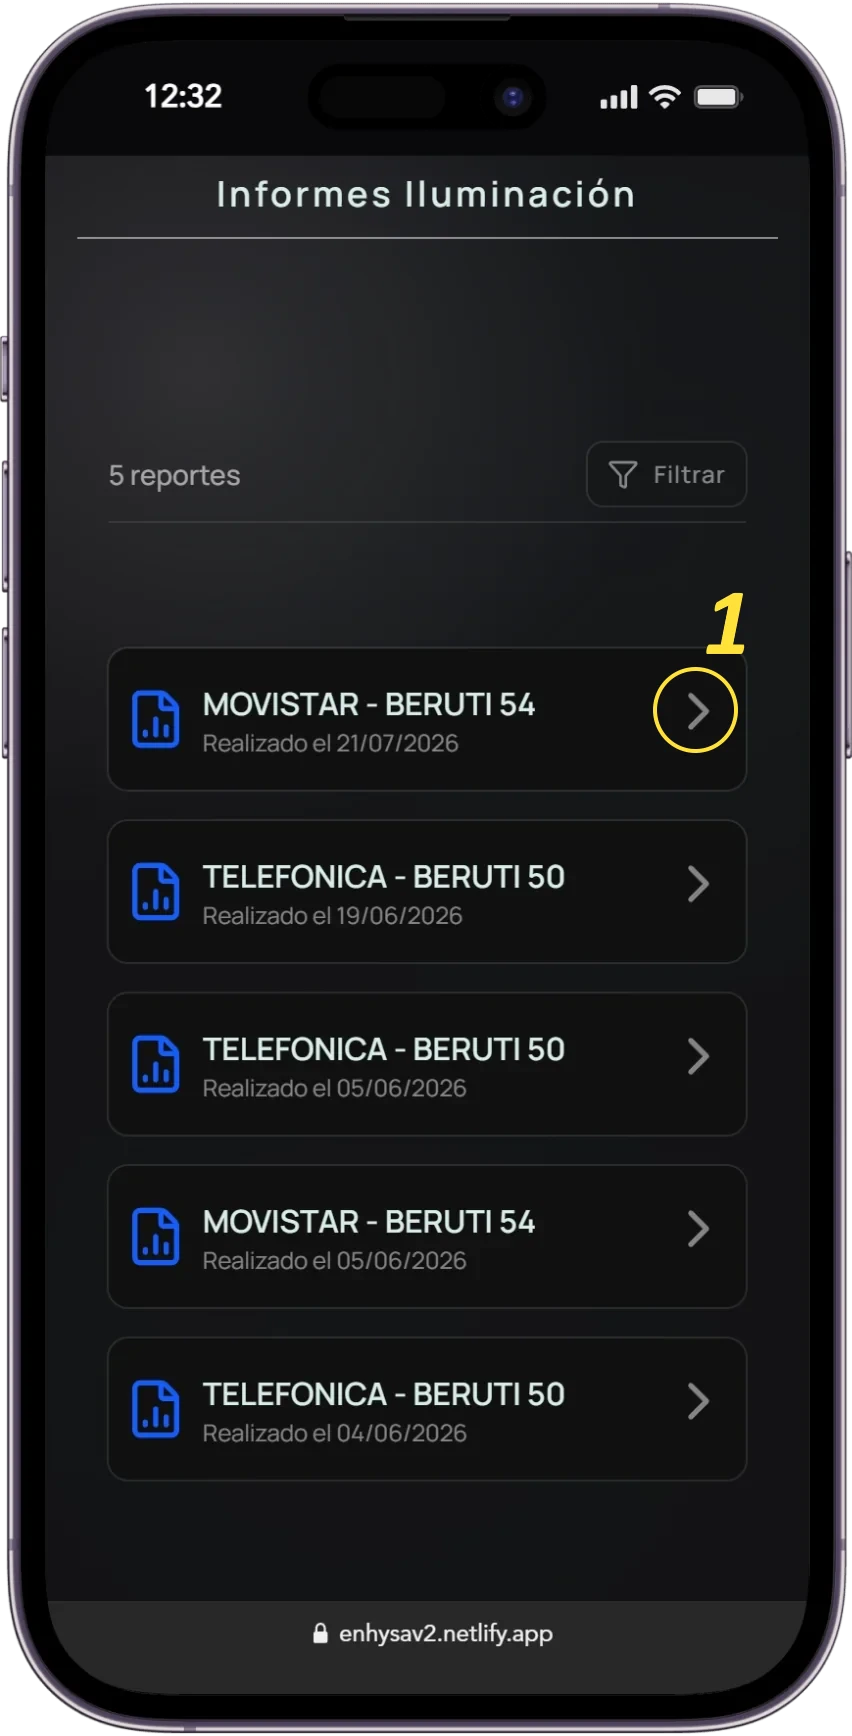
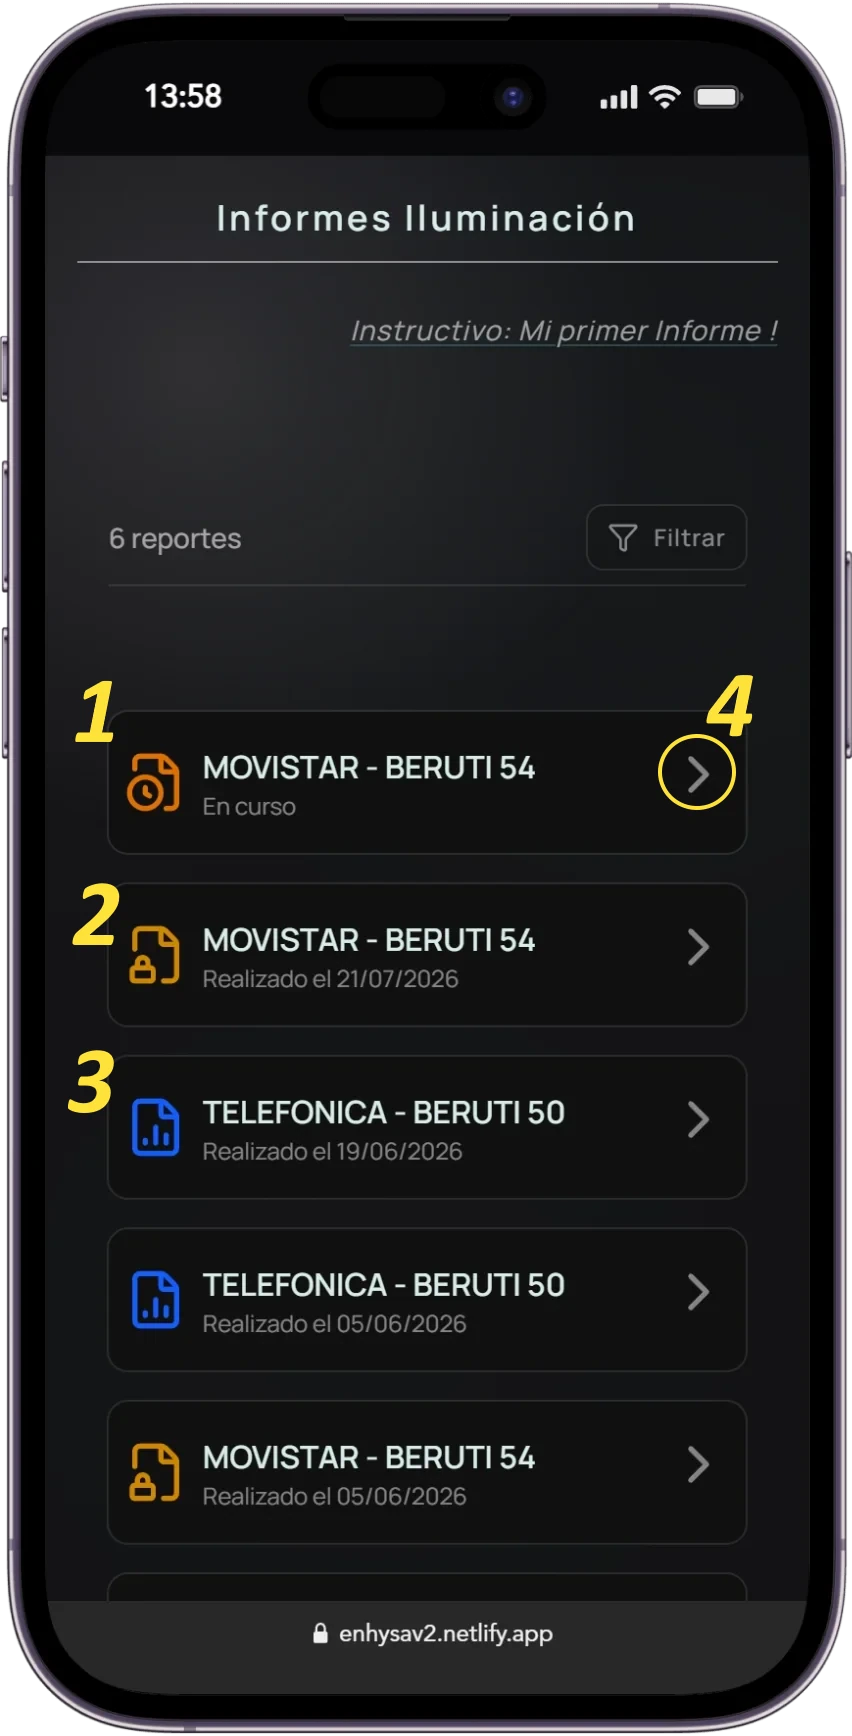
instructivo modificamos candados en informes. Agregamos contactos en footer. El "Ingresar" Prueba Gratis" cambian si ya estoy logueado.

diff --git a/src/components/footer.tsx b/src/components/footer.tsx
@@ -1,8 +1,11 @@
 import { Link } from "@tanstack/react-router"
+import { Mail, Phone } from "lucide-react"
+import { useState } from "react"
 // import { PreferencesMenu } from "../layout/preferences-menu"
 
 export default function Footer() {
 	const actualYear = new Date().getFullYear()
+	const [soporte, setSoporte] = useState(false)
 
 	return (
 		<article className="w-full p-6 flex flex-col justify-center overflow-hidden gap-10 relative  text-foreground text-shadow-none">
@@ -25,13 +28,124 @@ export default function Footer() {
 				<li>
 					<Link to="/suscripcion">Suscripción</Link>
 				</li>
+				<li>
+					<button onClick={() => setSoporte(s => !s)}>Soporte técnico</button>
+				</li>
+				{soporte && (
+					<li className="w-full">
+						<Contactos />
+					</li>
+				)}
 			</ul>
+
 			<p className="text-xs w-full text-center z-10">
 				© {actualYear} Enhysa. Todos los derechos reservados.
 			</p>
-			{/* <div className="absolute top-5 right-4 z-20">
-				<PreferencesMenu />
-			</div> */}
 		</article>
+	)
+}
+
+function Contactos() {
+	return (
+		<>
+			{/* MOVIL */}
+			<div className="sm:hidden flex gap-2 justify-between text-xs">
+				<a
+					href="mailto:jonatanjmissora@gmail.com"
+					title="mail_de_desarrollador"
+					target="_blank"
+					rel="noopener noreferrer"
+				>
+					<div className="flex flex-col items-center justify-center gap-2">
+						<Mail />
+						<span className="">soporte</span>
+					</div>
+				</a>
+				<a
+					href="mailto:mandrake@gmail.com"
+					title="mail_de_tecnico"
+					target="_blank"
+					rel="noopener noreferrer"
+				>
+					<div className="flex flex-col items-center justify-center gap-2">
+						<Mail />
+						<span className="">técnico</span>
+					</div>
+				</a>
+
+				<a
+					title="whatsapp"
+					target="_blank"
+					rel="noopener noreferrer"
+					href="https://wa.me/+5492914319025"
+				>
+					<div className="flex flex-col items-center justify-center gap-2">
+						<Phone />
+						<span className="">soporte</span>
+					</div>
+				</a>
+
+				<a
+					title="whatsapp"
+					target="_blank"
+					rel="noopener noreferrer"
+					href="https://wa.me/+5492914319025"
+				>
+					<div className="flex flex-col items-center justify-center gap-2">
+						<Phone />
+						<span className="">técnico</span>
+					</div>
+				</a>
+			</div>
+
+			{/* DESKTOP */}
+			<div className="hidden sm:flex items-center justify-center gap-20">
+				<a
+					href="https://mail.google.com/mail/u/0/?fs=1&to=jonatanjmissora@gmail.com&su=&body=&bcc=&tf=cm"
+					title="mail_de_la_empresa"
+					target="_blank"
+					rel="noopener noreferrer"
+				>
+					<div className="flex items-center justify-center gap-2">
+						<Mail />
+						<span className="">soporte</span>
+					</div>
+				</a>
+				<a
+					href="https://mail.google.com/mail/u/0/?fs=1&to=mandra@gmail.com&su=&body=&bcc=&tf=cm"
+					title="mail_de_la_empresa"
+					target="_blank"
+					rel="noopener noreferrer"
+				>
+					<div className="flex items-center justify-center gap-2">
+						<Mail />
+						<span className="">técnico</span>
+					</div>
+				</a>
+				<a
+					title="whatsapp"
+					target="_blank"
+					rel="noopener noreferrer"
+					href="https://wa.me/+5492914319025"
+				>
+					<div className="flex items-center justify-center gap-2">
+						<Phone />
+						<span className="">soporte</span>
+					</div>
+				</a>
+
+				<a
+					title="whatsapp"
+					target="_blank"
+					rel="noopener noreferrer"
+					href="https://wa.me/+5492914319025"
+				>
+					<div className="flex items-center justify-center gap-2">
+						<Phone />
+						<span className="">técnico</span>
+					</div>
+				</a>
+			</div>
+		</>
 	)
 }

diff --git a/src/components/suscripciones.tsx b/src/components/suscripciones.tsx
@@ -4,8 +4,10 @@ import { Link } from "@tanstack/react-router"
 import { useState } from "react"
 import { Label } from "./ui/label"
 import { Check } from "lucide-react"
+import { authClient } from "#/lib/auth-client"
 
 export default function SuscriptionPlans({ from }: { from?: string }) {
+	const { data: session } = authClient.useSession()
 	const [actualPlan, setActualPlan] = useState<0 | 1 | 2>(1)
 	const [anual, setAnual] = useState(false)
 
@@ -38,19 +40,27 @@ export default function SuscriptionPlans({ from }: { from?: string }) {
 					to="/"
 					className="bg-[#5cb85c] text-white rounded-md px-7 py-3.5 text-base font-semibold transition-all hover:bg-[#4ca84c] hover:shadow-[0_4px_12px_rgba(92,184,92,0.3)] flex-1 text-center"
 				>
-					Tengo mi Cuenta
+					{session?.user ? "Continuar con Mi Cuenta" : "Ingresar con Mi Cuenta"}
 				</Link>
 
 				<div className="text-center flex gap-3 flex-col items-end justify-center py-20 ml-auto flex-1">
 					<p>
 						Lee nuestra{" "}
-						<Link to="/teoria/politicas-de-privacidad" search={{ from: from ?? "suscripcion" }} className="underline">
+						<Link
+							to="/teoria/politicas-de-privacidad"
+							search={{ from: from ?? "suscripcion" }}
+							className="underline"
+						>
 							Política de Privacidad
 						</Link>
 					</p>
 					<p>
 						y nuestros{" "}
-						<Link to="/teoria/terminos-de-uso" search={{ from: from ?? "suscripcion" }} className="underline">
+						<Link
+							to="/teoria/terminos-de-uso"
+							search={{ from: from ?? "suscripcion" }}
+							className="underline"
+						>
 							Términos de Uso
 						</Link>
 					</p>
@@ -92,7 +102,7 @@ const Plan = ({
 			}}
 			className={`card border border-foreground/10 overflow-hidden relative sm:w-80 2xl:w-100 rounded-lg p-8 flex flex-col items-start gap-10 duration-300 cursor-pointer ${actualPlan === index ? "dark:bg-[#1f301f] bg-[#8dac8d] scale-100 sm:scale-120 z-5 " : "bg-accent"}`}
 		>
-				{actualPlan === index && (
+			{actualPlan === index && (
 				<img
 					src="/EnHySa_logo.webp"
 					alt="logo EnHySa"
@@ -122,7 +132,7 @@ const Plan = ({
 			{index === 0 ? (
 				<div className="flex flex-col gap-2 w-full">
 					<Link
-						to="/login"
+						to="/"
 						className={`w-full py-3 text-primary-foreground rounded-md text-center font-semibold block no-underline ${
 							index === actualPlan ? "bg-green-400" : "bg-primary"
 						}`}

diff --git a/src/routes/_protected/iluminacion/reportes/instructivo.tsx b/src/routes/_protected/iluminacion/reportes/instructivo.tsx
@@ -54,7 +54,7 @@ En (1) son los datos del técnico, en (2) son los datos de la empresa a la que b
 	},
 	{
 		nro: 7,
-		texto: `En el siguiente formulario encontraremos el apartado de Áreas. Pueden ser áreas de trabajo (1) o de una medición localizada (2). Un informe puede tener una o ambas, y pueden ser más de una por categoría. Cuando pulsemos en la opción deseada, se nos abrirán los formularios correspondientes, luego de cargar los datos, retornaremos a esta pantalla, habilitándose el botón de "Siguiente" para continuar.`,
+		texto: `En el siguiente formulario encontraremos el apartado de Áreas. Pueden ser áreas de trabajo (1) o de una medición localizada (2). Un informe puede tener una o ambas, y pueden ser más de una por categoría. Cuando pulsemos en la opción deseada, se nos abrirán los formularios correspondientes, luego de cargar los datos, retornaremos a esta pantalla, pulsaremos el botón "Siguiente" para continuar.`,
 		img: "/pasos/paso7.webp",
 	},
 	{
@@ -79,7 +79,7 @@ En (1) son los datos del técnico, en (2) son los datos de la empresa a la que b
 	},
 	{
 		nro: 12,
-		texto: `En esta pantalla existirán tanto los informes finalizados como el que tenga en proceso. Solo podrá existir un solo informe en proceso, que todavía no haya finalizado, y todos los informes finalizados que desee. Pulsando la flecha (1) de cada informe, podrá acceder nuevamente a los datos ingresados.`,
+		texto: `En esta pantalla existirán tanto los informes finalizados (3) como el que tenga en proceso (1). Solo podrá existir un solo informe en proceso, que todavía no haya finalizado, y todos los informes finalizados que desee. El icono con candado (2) muestra los informes que todavia estan bloqueados. Pulsando la flecha (4) de cada informe, podrá acceder nuevamente a los datos ingresados.`,
 		img: "/pasos/paso12.webp",
 	},
 	{

diff --git a/src/routes/_with-header/landing.tsx b/src/routes/_with-header/landing.tsx
@@ -1,6 +1,7 @@
 import { createFileRoute, Link, useNavigate } from "@tanstack/react-router"
 import { useState, useEffect } from "react"
 import SuscriptionPlans from "#/components/suscripciones"
+import { authClient } from "#/lib/auth-client"
 
 export const Route = createFileRoute("/_with-header/landing")({
 	component: Landing,
@@ -19,6 +20,7 @@ function Landing() {
 }
 
 function Hero() {
+	const { data: session } = authClient.useSession()
 	const navigate = useNavigate()
 
 	const scrollToHash = (hash: string) => () => {
@@ -48,10 +50,12 @@ function Hero() {
 					<div className="flex gap-12 flex-wrap max-md:justify-center">
 						<button
 							type="button"
-							onClick={scrollToHash("suscriptions")}
+							onClick={() => navigate({ to: "/" })}
 							className="bg-[#5cb85c] text-white rounded-md px-7 py-3.5 text-base font-semibold transition-all hover:bg-[#4ca84c] hover:shadow-[0_4px_12px_rgba(92,184,92,0.3)]"
 						>
-							Comenzar Período de Prueba
+							{session?.user
+								? "Continuar con la App"
+								: "Comenzar a Probar la App"}
 						</button>
 						<button
 							type="button"

diff --git a/src/routes/_with-header/route.tsx b/src/routes/_with-header/route.tsx
@@ -1,3 +1,4 @@
+import { authClient } from "#/lib/auth-client"
 import {
 	createFileRoute,
 	Link,
@@ -23,6 +24,7 @@ function RouteComponent() {
 }
 
 function Navbar() {
+	const { data: session } = authClient.useSession()
 	const [isOpen, setIsOpen] = useState(false)
 	const navigate = useNavigate()
 
@@ -77,7 +79,7 @@ function Navbar() {
 					to="/"
 					className="bg-[#5cb85c] text-white rounded-md px-5 py-2 text-sm font-semibold no-underline transition-all hover:bg-[#4ca84c] hover:shadow-[0_4px_12px_rgba(92,184,92,0.3)]"
 				>
-					Ingresar
+					{session?.user ? "Ir a Mi App" : "Ingresar"}
 				</Link>
 			</nav>
 			<button

diff --git a/src/routes/_with-header/teoria/presupuesto.tsx b/src/routes/_with-header/teoria/presupuesto.tsx
@@ -194,7 +194,7 @@ function getPrecioBase(
 	return opcion?.valor ?? 0
 }
 
-export default function RouteComponent() {
+function RouteComponent() {
 	const [perfil, setPerfil] = useState<Perfil>("licenciado")
 	const [actividad, setActividad] = useState(0)
 	const [logo, setLogo] = useState<string | null>(null)

diff --git a/TODO.md b/TODO.md
@@ -44,8 +44,21 @@ mandra hacer:
 
 
 kato hacer:
-	mercadopago
-	agregar contactos
-	cambiar logica de negocios. creditConsumed == true, no se puede modificar nada del informe.
-	deshabilitar el boton "Siguiente" en areas, si es que no hay areas o localizadas creadas
+	V agregar contactos para los no demo users. (pedir email a mandra)
+	X cambiar logica de negocios. creditConsumed == true, no se puede modificar nada del informe.
+	V candado en el icono de informes para los que informes bloqueados.
+	V modificar imagen y texto para los informes con candado
+	V logo de EnHySa en el login / register.
+	V cambiar los botones de "Prueba Gratis", "Ingresar", "Tengo mi Cuenta" por la de "Continuar con la App", "Ir a mi App", "Continuar con mi cuenta" si es que estoy logueado.
+	X mejorar tema claro.
+	X mercadopago.
+	X demo user no puede comprar creditos.
+
+	evaluar el "volver" de las /landing cuando vuelvo de Terminos de uso", que me tiraba error.
+	evaluar el call back de google account para produccion.
+	evaluar el modal que se abre en el login para usuario demo.
+
+
+
+
 	
